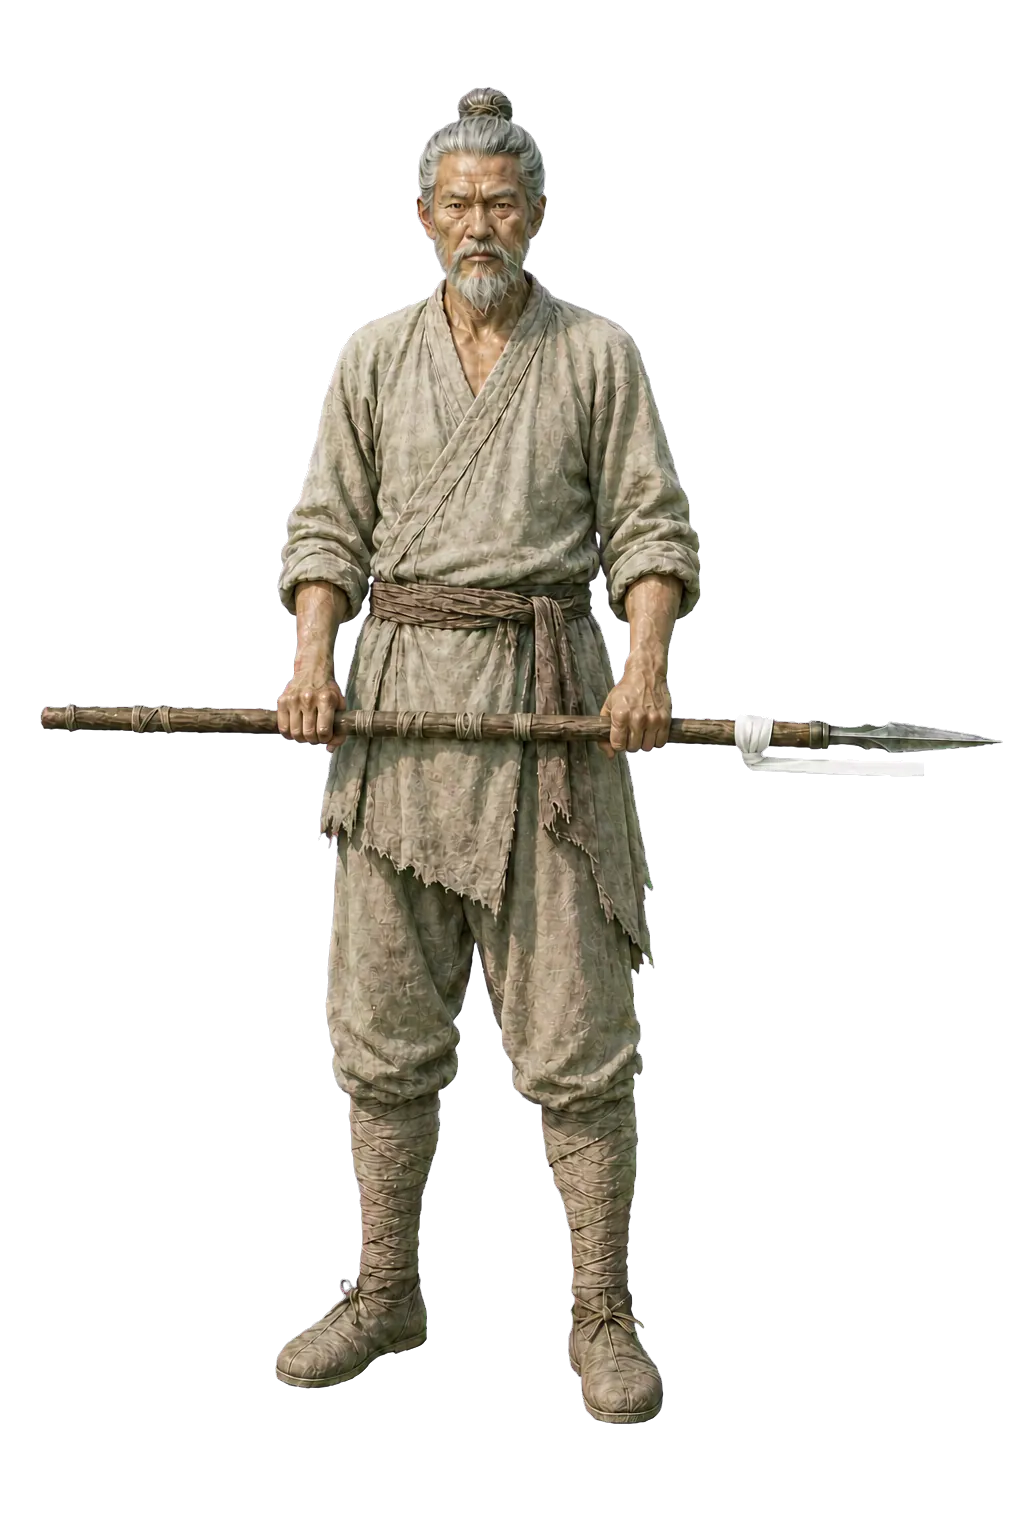
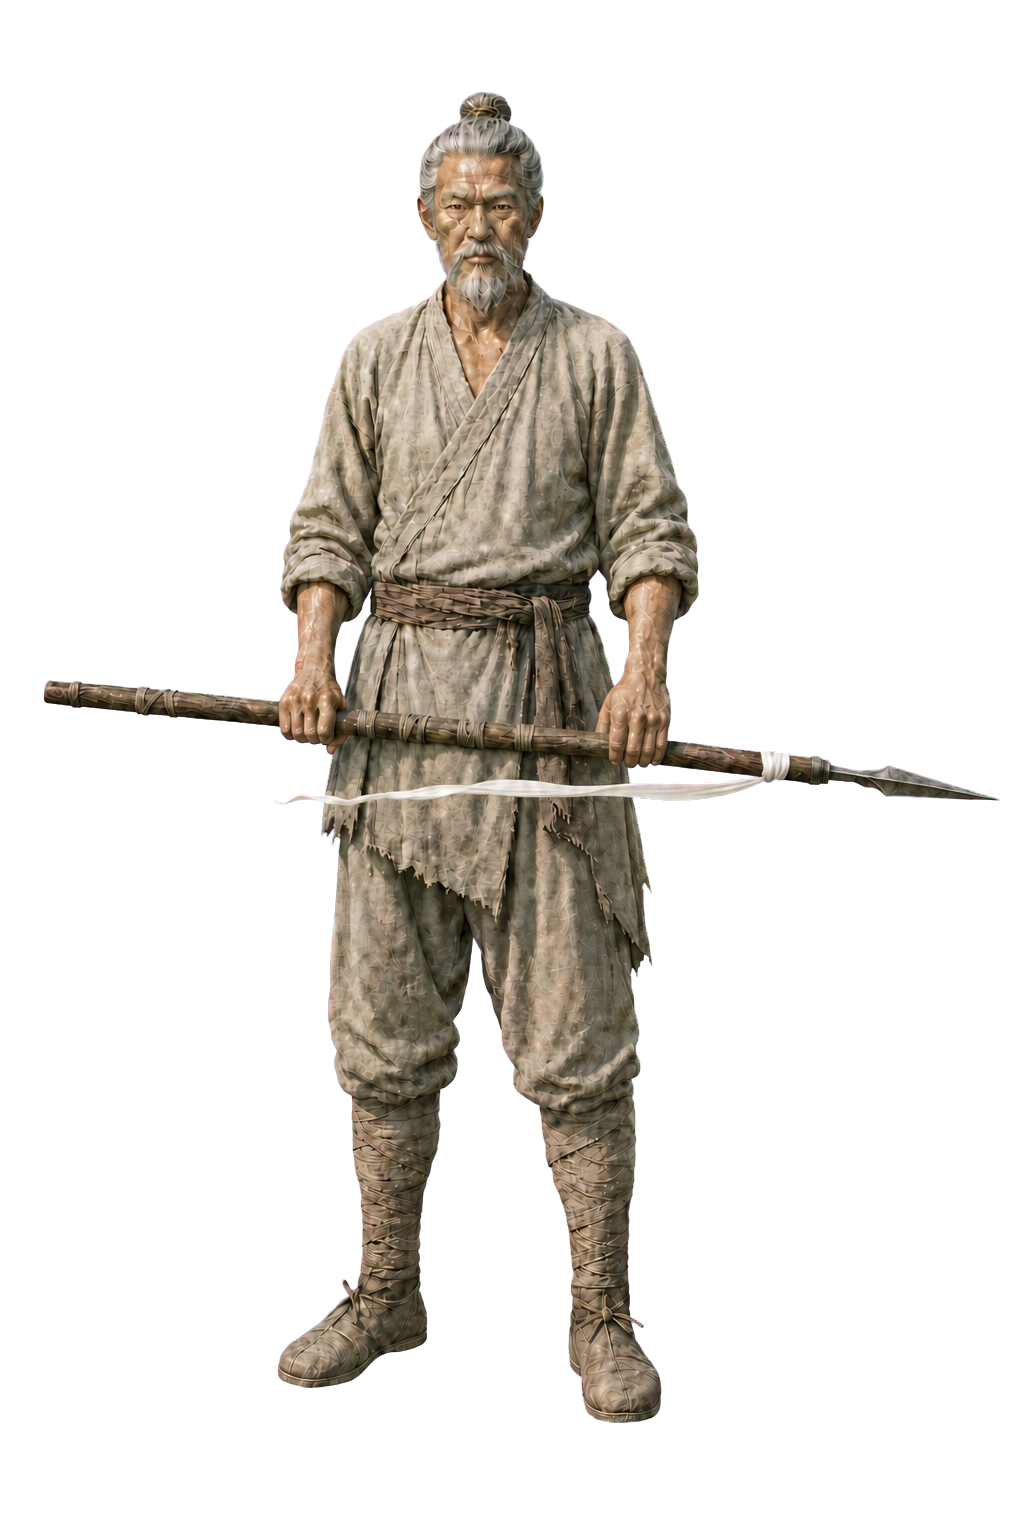
送关旧部白布动势返修:候选过硬规格,覆盖正式资产
PIL 独立复测(不采信出图端自报):PNG 1024×1536 RGBA、四角 alpha 全 0、
bbox=(43,91,1001,1423)、脚底 fraction 0.926432,与表值 0.9277 偏差
0.0013 ≤ 派单 0.002 阈值,character_avatar 表值不动、仅补复测注记。
真 PNG 体例与塔批 C 一致。targeted 五文件 33 pass + analyze 0 issue。
视觉终拍(同脸/动势/画风)留用户晨审。

Changed region(s): [[0.0312, 0.0312, 0.9688, 0.9062], [0.4688, 0.5625, 0.6562, 0.9375], [0.5312, 0.1875, 0.5625, 0.2188]]

diff --git a/lib/features/battle/presentation/character_avatar.dart b/lib/features/battle/presentation/character_avatar.dart
@@ -1568,6 +1568,8 @@ double battleStandeeFootFraction(String? path) => switch (path) {
   // Ch20「东入阳关」(2026-07-29 美术批):alpha 包围盒实测登记(PIL 逐图现测,非采信出图端自报)。
   // 送关旧部 0.9277 明显低于同批其余四张(0.9486-0.9635),是其 alpha 包围盒底沿实测值
   // (bbox=(40,86,1003,1425) / 1536)——本表存在的意义就是吸收这种逐图差异,勿手改成「看着齐」。
+  // 2026-08-05 白布动势返修换图后 PIL 复测:bbox=(43,91,1001,1423)、fraction 0.926432,
+  // 与表值偏差 0.0013 ≤ 返修派单 0.002 阈值,表值维持 0.9277 不动。
   'assets/enemies/ruguan_huan_ma_ren.png' => 0.9486,
   'assets/enemies/ruguan_shou_feng_ren.png' => 0.9635,
   'assets/enemies/ruguan_bu_qiang_jiang.png' => 0.9622,
